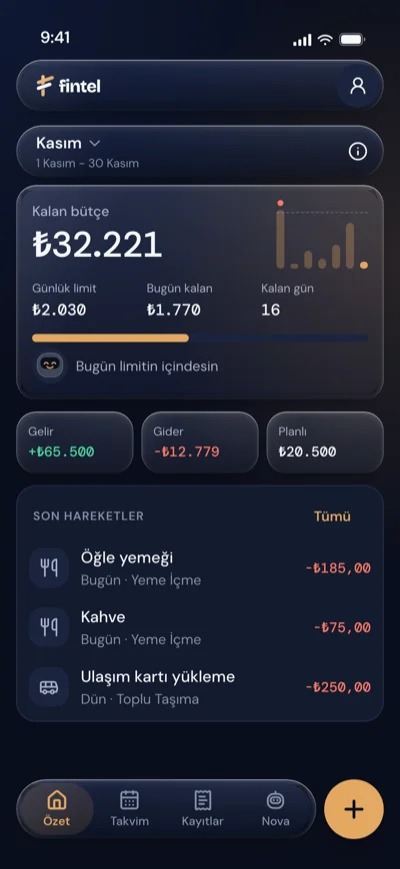
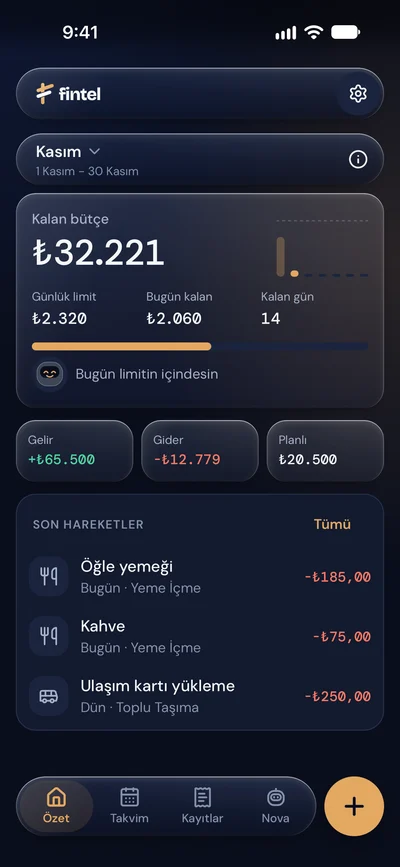
Fintel App Store'da: bağlantı aktif, açıklamalar güncellendi, kart ekranı yeni arayüzden

diff --git a/src/data/projects.ts b/src/data/projects.ts
@@ -86,7 +86,7 @@ export const projectsData: ProjectBase[] = [
         liveLink: "https://app.fintel.septimuslab.com/",
         githubLink: "https://github.com/AhmetDemiroglu/expense-tracker-v2",
         googlePlayLink: "https://play.google.com/store/apps/details?id=com.fintel.app",
-        appStoreSoon: true,
+        appStoreLink: "https://apps.apple.com/app/id6835149318",
         badges: ["live"],
         pinned: false,
         mockupType: "phone",
@@ -99,6 +99,7 @@ export const projectsData: ProjectBase[] = [
         liveLink: null,
         githubLink: "https://github.com/AhmetDemiroglu/PureScan",
         googlePlayLink: "https://play.google.com/store/apps/details?id=com.septimuslab.purescan",
+        /* App Store'a girince: appStoreSoon satırını sil, appStoreLink: "https://apps.apple.com/app/id..." ekle. */
         appStoreSoon: true,
         badges: ["live"],
         pinned: false,
